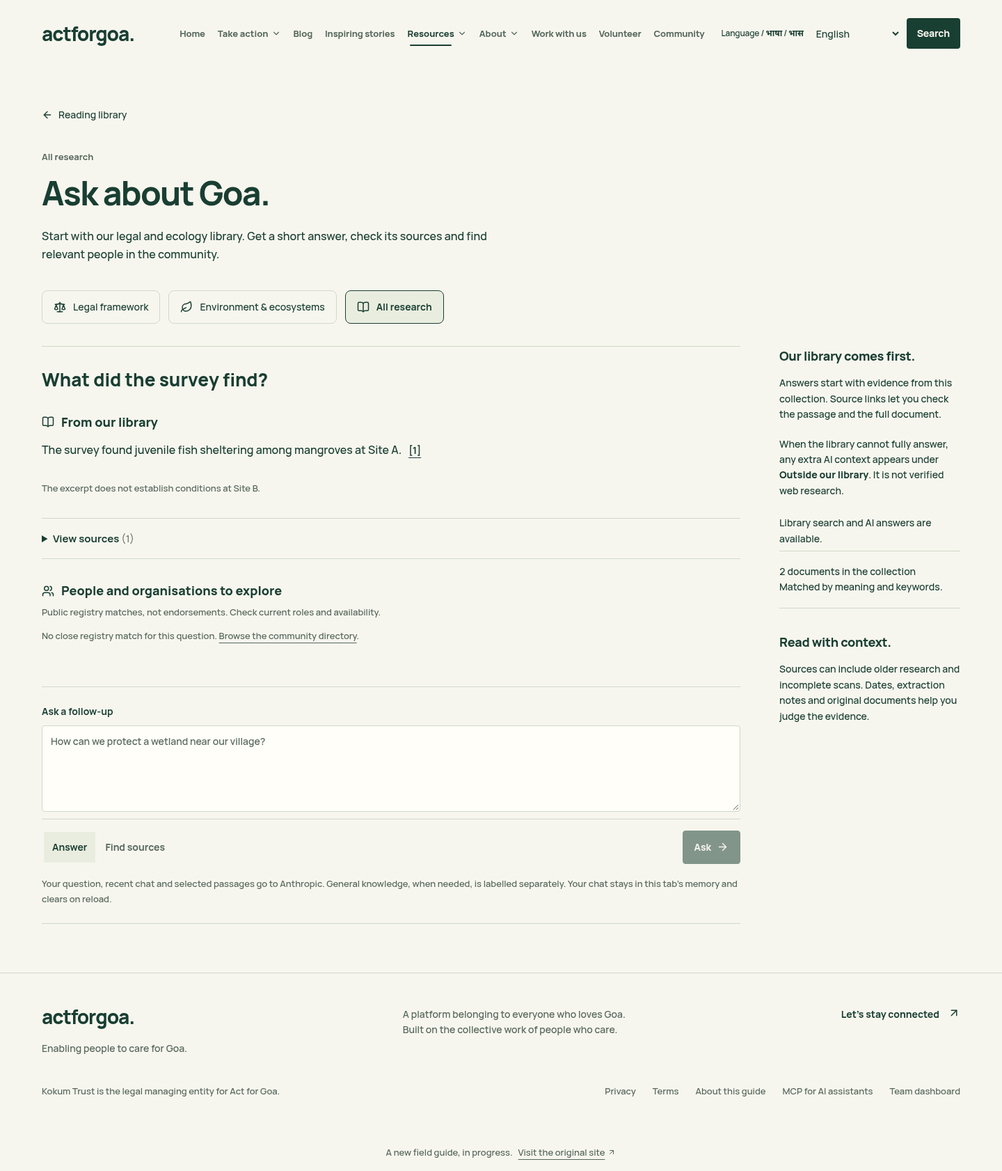
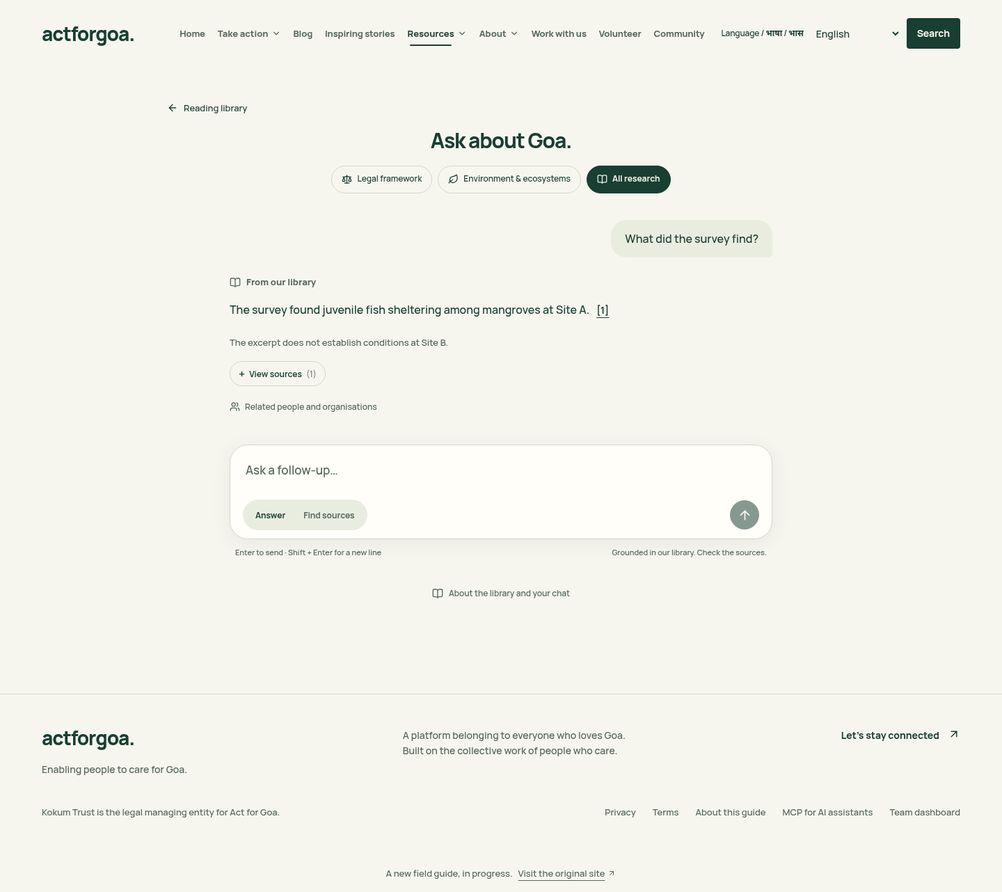
Restyle research as a rounded conversational chat interface

diff --git a/src/Research.tsx b/src/Research.tsx
@@ -1,6 +1,6 @@
 import {createContext,useContext,useEffect,useMemo,useRef,useState,type FormEvent,type ReactNode} from 'react';
 import {Link,useLocation,useParams,useSearchParams} from 'react-router-dom';
-import {ArrowLeft,ArrowRight,ArrowUpRight,BookOpen,Download,Leaf,Scale,Users} from 'lucide-react';
+import {ArrowLeft,ArrowRight,ArrowUp,ArrowUpRight,BookOpen,Download,Leaf,Scale,Users,MessageCircle} from 'lucide-react';
 import {Button} from './components/arc/button/button';
 import {Input} from './components/arc/input/input';
 import {Textarea} from './components/arc/textarea/textarea';
@@ -90,6 +90,7 @@ function ResearchConversation({scope,domain,docId,sourceGeneration}:{scope:strin
   setCommunity(reviewPolytechnicSnapshot(value));
  }).catch(e=>{if(e.name!=='AbortError')setCommunityError(true);});return()=>controller.abort();},[hasTurns]);
  useEffect(()=>{if(turns.length){latestTurn.current?.scrollIntoView({block:'start'});latestTurn.current?.focus({preventScroll:true});}},[turns.length]);
+ useEffect(()=>{const input=questionInput.current;if(input){input.style.height='auto';input.style.height=`${Math.min(input.scrollHeight,180)}px`;}},[question]);
  useEffect(()=>{const previous=document.title;document.title=`${content.label} | ActForGoa`;return()=>{document.title=previous;};},[content.label]);
  async function run(value=question,requested=mode){
   const clean=value.trim();if(clean.length<2||busy||!domainSupported||(requested==='ask'&&!canAsk))return;
@@ -108,30 +109,30 @@ function ResearchConversation({scope,domain,docId,sourceGeneration}:{scope:strin
  }
  const submit=(event:FormEvent)=>{event.preventDefault();void run();};
  const statusText=statusError||(!status?'Connecting to the library…':!status.search_ready?'The research library is not ready yet.':!domainSupported?'This collection is not available on the research service yet.':!canAsk?'Source search is ready. AI answers are not available yet.':'Library search and AI answers are available.');
- return <main className="research shell"><header className="research-heading"><Link to="/library" className="back-link"><ArrowLeft size={16}/>Reading library</Link><p className="research-eyebrow">{content.label}</p><h1>{content.title}</h1><p>{content.description}</p></header>
+ return <main className={`research research-chat shell ${hasTurns?'has-conversation':''}`}><header className="research-heading"><Link to="/library" className="back-link"><ArrowLeft size={16}/>Reading library</Link><div className="chat-mark" aria-hidden="true"><MessageCircle size={25}/></div><h1>{content.title}</h1><p>Ask a question. Explore the answer together, grounded in our library.</p></header>
   <nav className="research-domains" aria-label="Choose a research collection">{(['legal','ecology','all'] as const).map(key=><Link key={key} to={researchDomains[key].path} aria-current={domain===key?'page':undefined}>{key==='legal'?<Scale size={18}/>:key==='ecology'?<Leaf size={18}/>:<BookOpen size={18}/>}<span>{researchDomains[key].label}</span></Link>)}</nav>
   <div className="research-layout"><div className="research-main">
    {!domainSupported&&<div className="research-message" role="status"><p>{statusText}</p>{status&&<Link className="text-link" to="/ask">Explore all available research<ArrowRight size={16}/></Link>}</div>}
-   {turns.map((turn,index)=>{const sources=turn.answer?.citations.length?turn.answer.citations:turn.results;return <section className="research-turn" ref={index===turns.length-1?latestTurn:undefined} tabIndex={-1} key={index} aria-label={'Question '+(index+1)}><h2>{turn.question}</h2>
+   {turns.map((turn,index)=>{const sources=turn.answer?.citations.length?turn.answer.citations:turn.results;return <section className="research-turn" ref={index===turns.length-1?latestTurn:undefined} tabIndex={-1} key={index} aria-label={'Question '+(index+1)}><div className="chat-user-message"><span className="chat-sr-only">You asked</span><h2>{turn.question}</h2></div>
     {turn.error&&<p role="alert" className="research-message">{turn.error}</p>}
     {turn.answer&&<AnswerSections answer={turn.answer} returnTo={returnTo}/>}
     {sources.length?<details className="research-sources" open={turn.mode==='search'||undefined}><summary>{turn.answer?'View sources':turn.mode==='ask'?'View matching sources':'Matching sources'} <span>({sources.length})</span></summary>{sources.map((source,n)=><Source key={source.id} source={source} number={n+1} returnTo={returnTo}/>)}</details>:!turn.error&&!turn.answer&&<p>No matching passages. Try a place, an official term or a broader topic.</p>}
-    <CommunitySuggestions data={community} question={turn.question} loading={!community&&!communityError} error={communityError}/>
+    <details className="chat-related"><summary><Users size={15}/>Related people and organisations</summary><CommunitySuggestions data={community} question={turn.question} loading={!community&&!communityError} error={communityError}/></details>
    </section>;})}
-   <form className="research-composer" onSubmit={submit}>
-    <Textarea label={turns.length?'Ask a follow-up':'What would you like to understand?'} ref={questionInput} id="research-question" value={question} onChange={event=>setQuestion(event.target.value)} rows={3} maxLength={2000} minLength={2} required placeholder={content.placeholder} disabled={busy}/>
-    <div className="composer-actions"><fieldset className="research-mode-fieldset" disabled={busy}><SegmentedControl label="Research mode" options={[{value:'ask',label:'Answer'},{value:'search',label:'Find sources'}]} value={mode} onValueChange={value=>{if(!busy)setMode(value as 'search'|'ask');}}/></fieldset><Button className="research-submit" type="submit" disabled={busy||question.trim().length<2||!domainSupported||(mode==='ask'&&!canAsk)}>{busy?'Working…':mode==='ask'?'Ask':'Find sources'}<ArrowRight size={17}/></Button></div>
-    {mode==='ask'&&!canAsk&&domainSupported&&<p className="research-small" role="status">Answers are unavailable right now. Choose “Find sources” to browse the library while we restore them.</p>}
-    <p className="research-small">{mode==='ask'&&canAsk?'Your question, recent chat and selected passages go to Anthropic. General knowledge, when needed, is labelled separately.':'Source search uses our library and does not send your question to an AI provider.'} Your chat stays in this tab’s memory and clears on reload.</p>
-    {busy&&<p role="status" className="research-small">{mode==='ask'&&canAsk?'Finding library evidence and preparing a short answer…':'Finding matching library passages…'}</p>}
+   <form className="research-composer chat-composer" onSubmit={submit}>
+    <div className="chat-input"><Textarea label={turns.length?'Ask a follow-up':'Message ActForGoa'} ref={questionInput} id="research-question" value={question} onChange={event=>setQuestion(event.target.value)} onKeyDown={event=>{if(event.key==='Enter'&&!event.shiftKey&&!event.nativeEvent.isComposing){event.preventDefault();void run();}}} rows={1} maxLength={2000} minLength={2} required placeholder={turns.length?'Ask a follow-up…':domain==='all'?'Ask anything about Goa…':domain==='legal'?'Ask about Goa’s legal framework…':'Ask about Goa’s ecosystems…'} disabled={busy}/></div>
+    <div className="composer-actions"><fieldset className="research-mode-fieldset" disabled={busy}><SegmentedControl label="Research mode" options={[{value:'ask',label:'Answer'},{value:'search',label:'Find sources'}]} value={mode} onValueChange={value=>{if(!busy)setMode(value as 'search'|'ask');}}/></fieldset><Button className="research-submit" type="submit" aria-label={busy?'Working…':mode==='ask'?'Ask':'Find sources'} title={mode==='ask'?'Send message':'Find sources'} disabled={busy||question.trim().length<2||!domainSupported||(mode==='ask'&&!canAsk)}><ArrowUp size={21}/></Button></div>
+    {busy&&<p role="status" className="chat-composer-status"><span className="chat-working-dot"/>{mode==='ask'?'Reading the library and preparing your answer…':'Finding matching passages…'}</p>}
    </form>
+   <div className="chat-composer-meta"><p>{busy?'': 'Enter to send · Shift + Enter for a new line'}</p><p>Grounded in our library. Check the sources.</p></div>
+   {mode==='ask'&&!canAsk&&domainSupported&&<div className="chat-availability" role="status"><p>Answers are unavailable right now. Choose “Find sources” to browse the library while we restore them.</p><Button variant="ghost" type="button" onClick={()=>setStatusAttempt(value=>value+1)}>Check availability</Button></div>}
    {!turns.length&&<div className="research-starters"><h2>Start with a question</h2>{content.starters.map(question=><Button variant="ghost" key={question} type="button" disabled={busy||!domainSupported||(mode==='ask'&&!canAsk)} onClick={()=>void run(question)}>{question}<ArrowRight size={17}/></Button>)}</div>}
-  </div><aside className="research-aside"><h2>Our library comes first.</h2><p>Answers start with evidence from this collection. Source links let you check the passage and the full document.</p><p>When the library cannot fully answer, any extra AI context appears under <strong>Outside our library</strong>. It is not verified web research.</p>
+  </div><details className="research-aside chat-library-info"><summary><BookOpen size={16}/>About the library and your chat</summary><div className="chat-library-body"><h2>Our library comes first.</h2><p>Answers start with evidence from this collection. Source links let you check the passage and the full document.</p><p>When the library cannot fully answer, any extra AI context appears under <strong>Outside our library</strong>. It is not verified web research.</p><p>{mode==='ask'&&canAsk?'Your question, recent chat and selected passages go to Anthropic. General knowledge, when needed, is labelled separately.':'Source search uses our library and does not send your question to an AI provider.'} Your chat stays in this tab’s memory and clears on reload.</p>
    <p className="research-service-status" role="status">{statusText}</p>{(statusError||status&&!canAsk)&&<Button variant="ghost" type="button" onClick={()=>setStatusAttempt(value=>value+1)}>Check availability</Button>}
    {status?.search_ready&&<p className="research-coverage">{domain==='all'?`${status.stats.documents?.toLocaleString()||'Available'} documents in the collection`:status.domain_counts?.[domain]!==undefined?`${status.domain_counts[domain].toLocaleString()} documents in this section`:'Coverage is limited to the indexed collection.'}<br/>Matched by meaning and keywords.</p>}
    {docId&&<p>Searching within one document. <Link to={content.path}>Search this collection</Link></p>}
    <h2>{domain==='legal'?'Check current requirements.':'Read with context.'}</h2><p>{domain==='legal'?'Legal documents and draft guides may be historical or incomplete. Confirm current rules with the responsible authority before acting.':'Sources can include older research and incomplete scans. Dates, extraction notes and original documents help you judge the evidence.'}</p>
-  </aside></div>
+  </div></details></div>
  </main>;
 }
 export function ResearchDocument(){

diff --git a/src/research.css b/src/research.css
@@ -44,3 +44,83 @@
 .research-answer-section .citation-link{min-height:32px;min-width:32px;text-align:center}
 @media(max-width:1050px){.research-community ul{grid-template-columns:minmax(0,1fr)}.research-community li{padding-block:14px}.research-community h4{font-size:16px}}
 @media(max-width:620px){.research-domains{gap:8px;margin-bottom:24px}.research-domains a{flex:1 1 100%;min-height:48px;padding:10px 14px}.research-community ul{gap:0}.research-answer-section h3,.research-community>h3{font-size:17px}.research-answer-section .answer-paragraph{font-size:16px;line-height:1.85}.research-community li>a{min-height:44px}}
+
+/* The research conversation uses the rounded chat treatment requested by the user. */
+.research-chat{max-width:960px;padding-block:36px 64px;min-height:calc(100svh - 100px)}
+.research-chat .research-heading{max-width:none;text-align:center;margin-bottom:24px;position:relative;padding-top:34px}
+.research-chat .research-heading .back-link{position:absolute;left:0;top:0;font-size:13px;margin:0}
+.chat-mark{display:grid;place-items:center;width:52px;height:52px;margin:12px auto 18px;background:var(--pale);border-radius:18px;color:var(--green)}
+.research-chat .research-heading h1{font-size:clamp(32px,4vw,46px);line-height:1.15;letter-spacing:-.04em}
+.research-chat .research-heading>p{font-size:15px;line-height:1.65;max-width:42ch;margin:14px auto 0;color:var(--muted)}
+.research-chat .research-domains{justify-content:center;gap:8px;margin-bottom:32px;flex-wrap:wrap}
+.research-chat .research-domains a{flex:0 1 auto;min-height:40px;border-radius:999px;padding:8px 14px;gap:7px;font-size:12px;line-height:1.4;background:transparent}
+.research-chat .research-domains a[aria-current=page]{background:var(--green);border-color:var(--green);color:var(--paper)}
+.research-chat .research-domains svg{width:15px;height:15px}
+.research-chat .research-layout{display:block;max-width:780px;margin-inline:auto}
+.research-chat .research-turn{border:0;padding-top:6px;margin-bottom:36px;scroll-margin-top:100px}
+.chat-user-message{display:flex;justify-content:flex-end;margin-bottom:26px}
+.chat-user-message h2{font-size:16px;line-height:1.65;letter-spacing:0;font-weight:550;max-width:85%;padding:14px 20px;background:var(--pale);border-radius:22px 22px 6px 22px;overflow-wrap:anywhere;white-space:pre-wrap}
+.chat-sr-only,.chat-input label{position:absolute!important;width:1px!important;height:1px!important;padding:0!important;margin:-1px!important;overflow:hidden!important;clip:rect(0,0,0,0)!important;white-space:nowrap!important;border:0!important}
+.research-chat .research-answer-section{padding-block:0 12px}
+.research-chat .research-answer-section h3{font-size:13px;gap:8px;color:var(--muted);margin-bottom:16px}
+.research-chat .research-answer-section h3 svg{width:16px;height:16px}
+.research-chat .answer-paragraph{font-size:16px;line-height:1.85;margin-bottom:16px;max-width:none}
+.research-chat .research-outside{margin-top:14px;padding-top:18px}
+.research-chat .research-sources{border:0;margin:4px 0 10px}
+.research-chat .research-sources>summary{display:inline-flex;align-items:center;gap:6px;min-height:36px;padding:6px 12px;border:1px solid var(--line);border-radius:999px;font-size:12px;line-height:1.6;font-weight:650;list-style:none}
+.research-chat .research-sources>summary::before{content:'+';font-size:16px;line-height:1}
+.research-chat .research-sources[open]>summary::before{content:'−'}
+.research-chat .research-sources>summary::-webkit-details-marker{display:none}
+.research-chat .research-sources[open]{padding-bottom:8px}
+.research-chat .research-source{padding-inline:4px}
+.research-chat .research-message{border:0;background:var(--pale);border-radius:18px;padding:16px 18px;margin-block:12px}
+.chat-related{margin-top:8px;color:var(--muted);font-size:12px}
+.chat-related>summary{display:flex;align-items:center;gap:7px;cursor:pointer;min-height:38px;width:fit-content;list-style:none}
+.chat-related>summary::-webkit-details-marker{display:none}
+.chat-related .research-community{margin-top:14px;color:var(--green)}
+.research-chat .chat-composer{position:sticky;bottom:16px;z-index:5;border:1px solid var(--line);border-radius:26px;padding:18px 18px 12px;background:var(--white);box-shadow:0 6px 28px rgb(25 62 50 / 7%);margin-top:20px}
+.chat-input{position:relative}
+.research-chat .chat-input textarea{min-height:58px;max-height:180px;padding:4px 4px 12px;border:0;border-radius:14px;resize:none;font-size:17px;line-height:1.6;background:transparent;box-shadow:none;outline:none}
+.research-chat .chat-input textarea:hover,.research-chat .chat-input textarea:focus-visible{background:transparent;box-shadow:none;outline:none}
+.research-chat .chat-composer:focus-within{background:#fafbf5}
+.research-chat .chat-composer .composer-actions{border:0;padding:0;margin:2px 0 0;display:flex;align-items:center;justify-content:space-between;gap:12px;flex-wrap:nowrap}
+.research-chat .research-mode-fieldset [role=group]{border-radius:999px;background:var(--pale);padding:3px}
+.research-chat .research-mode-fieldset button{font-size:12px;min-height:32px;padding:5px 12px;border-radius:999px}
+.research-chat .research-mode-fieldset button>span{border-radius:999px}
+.research-chat .chat-composer .research-submit{width:42px;height:42px;min-width:42px;min-height:42px;border-radius:50%;padding:0;margin:0;display:grid;place-items:center;flex-shrink:0}
+.chat-composer-status{font-size:12px;color:var(--muted);display:flex;align-items:center;gap:8px;margin:12px 4px 0}
+.chat-working-dot{width:7px;height:7px;border-radius:50%;background:var(--green);flex-shrink:0;animation:chat-breathe 1.3s ease-in-out infinite}
+.chat-composer-meta{display:flex;justify-content:space-between;gap:12px;padding:10px 8px 0;color:var(--muted);font-size:11px;line-height:1.6}
+.chat-availability{font-size:12px;line-height:1.65;color:var(--muted);padding:12px 8px 0}
+.chat-availability button{font-size:12px;margin-top:3px}
+.research-chat .research-starters{margin-top:28px;display:grid;grid-template-columns:repeat(3,minmax(0,1fr));gap:10px}
+.research-chat .research-starters h2{grid-column:1/-1;font-size:12px;font-weight:550;letter-spacing:0;text-align:center;color:var(--muted);margin-bottom:2px}
+.research-chat .research-starters>button{border:1px solid var(--line);border-radius:16px;padding:14px;min-height:80px;font-size:13px;line-height:1.6;gap:8px;background:transparent}
+.research-chat .research-starters>button:hover{background:var(--pale)}
+.research-chat .research-starters>button svg{width:15px;height:15px;flex-shrink:0}
+.research-chat .chat-library-info{border:0;padding:0;margin:28px auto 0;max-width:none;font-size:13px}
+.chat-library-info>summary{display:flex;justify-content:center;align-items:center;gap:8px;font-size:12px;color:var(--muted);min-height:44px;cursor:pointer;list-style:none}
+.chat-library-info>summary::-webkit-details-marker{display:none}
+.chat-library-body{padding:20px 8px 0;max-width:65ch;margin:auto}
+.research-chat .chat-library-body h2{font-size:15px}
+.research-chat .chat-library-body p{font-size:13px}
+.research-chat.has-conversation .research-heading{margin-bottom:18px}
+.research-chat.has-conversation .chat-mark{display:none}
+.research-chat.has-conversation .research-heading h1{font-size:30px;margin-top:18px}
+.research-chat.has-conversation .research-heading>p{display:none}
+@keyframes chat-breathe{50%{opacity:.35}}
+@media(prefers-reduced-motion:reduce){.chat-working-dot{animation:none}}
+@media(max-width:620px){
+ .research-chat{padding-block:24px 40px}
+ .research-chat .research-heading{padding-top:30px;margin-bottom:20px}
+ .research-chat .research-domains{gap:6px;margin-bottom:24px}
+ .research-chat .research-domains a{font-size:11px;padding:8px 10px;min-height:38px}
+ .research-chat .chat-composer{border-radius:24px;padding:15px 13px 11px;bottom:10px}
+ .research-chat .chat-input textarea{font-size:16px;min-height:56px}
+ .research-chat .research-starters{grid-template-columns:1fr;gap:8px;margin-top:24px}
+ .research-chat .research-starters>button{min-height:54px;padding:12px 15px;border-radius:15px}
+ .chat-composer-meta{justify-content:center;text-align:center;font-size:10px}
+ .chat-composer-meta>p:first-child{display:none}
+ .chat-user-message h2{font-size:15px;max-width:90%;padding:12px 16px;border-radius:20px 20px 6px 20px}
+ .research-chat .research-mode-fieldset button{padding:5px 10px}
+}

diff --git a/tests/research/answer_first_browser.py b/tests/research/answer_first_browser.py
@@ -87,6 +87,8 @@ def main():
                 page.get_by_role('button', name='Ask', exact=True).click()
 
             open_page()
+            assert not page.evaluate('document.documentElement.scrollWidth > innerWidth + 1')
+            page.screenshot(path=str(output / f'chat-ready-{width}.png'), full_page=True)
             ask('What did the survey find?')
             turn = page.locator('.research-turn').first
             expect(turn.locator('.answer-paragraph').first).to_have_text(answer['paragraphs'][0]['text'] + '[1]')
@@ -102,12 +104,19 @@ def main():
             page.get_by_role('link', name='Back to your research', exact=True).click()
             expect(page.locator('.research-turn')).to_have_count(1)
             expect(page.locator('details.research-sources .research-source')).not_to_be_visible()
-            ask('What about Site B?')
+            composer = page.locator('#research-question')
+            composer.fill('What about')
+            composer.press('Shift+Enter')
+            page.keyboard.insert_text('Site B?')
+            expect(composer).to_have_value('What about\nSite B?')
+            assert len(state['requests']) == 1
+            composer.press('Enter')
             expect(page.locator('.research-turn')).to_have_count(2)
+            assert state['requests'][-1]['question'] == 'What about\nSite B?'
             history = state['requests'][-1]['history']
             assert history[0] == {'role': 'user', 'content': 'What did the survey find?'}
             assert history[1]['role'] == 'assistant' and 'juvenile fish' in history[1]['content']
-            checks.append({'width': width, 'case': 'answer first, collapsed sources, citation and contextual follow-up', 'passed': True})
+            checks.append({'width': width, 'case': 'answer first, collapsed sources, citation, keyboard send/newline and contextual follow-up', 'passed': True})
 
             state['failure'] = True
             open_page()

diff --git a/reports/answer-first-2026-10-28/README.md b/reports/answer-first-2026-10-28/README.md
@@ -1,15 +1,15 @@
 # Answer first verification
 
-The user requested a conversational answer grounded in the retrieved excerpts, with sources secondary. This change adds the editorial brief to the existing provider request, retains exact excerpt text with source locations, and prevents answer mode from silently becoming source search.
+The user requested a conversational answer grounded in the retrieved excerpts, with sources secondary, and then a rounded, classic chat interface. This change adds the editorial brief to the existing provider request, retains exact excerpt text with source locations, and prevents answer mode from silently becoming source search. The UI uses a rounded auto-growing composer, circular send control, user message bubbles, compact collection controls and expandable source/community/library details. Enter sends and Shift+Enter inserts a newline.
 
 Validation on 28 October 2026:
 
 - 121 Python research tests passed, including inspection of the actual HTTP request body sent through a mock Anthropic transport. Two complete excerpts, their qualifications and source locations reach the provider unchanged. Oversized excerpts are omitted whole rather than truncated; conversation history remains distinct from source evidence.
 - 178 Node tests passed with `NODE_USE_ENV_PROXY=1 NODE_USE_SYSTEM_CA=1 npm test`.
 - `npm run build` passed. The existing lazy PDF chunk size warning remains.
-- `python3 tests/research/answer_first_browser.py --base-url http://127.0.0.1:4193` passed nine scenarios at 1440, 390 and 320 pixels, with no page errors. Checks cover answer-first order, collapsed sources, exact-passage navigation and return, follow-up context, failed generation and explicit source browsing while generation is unavailable.
+- `python3 tests/research/answer_first_browser.py --base-url http://127.0.0.1:4193` passed nine scenarios at 1440, 390 and 320 pixels, with no page errors or horizontal overflow. Checks cover answer-first order, collapsed sources, exact-passage navigation and return, keyboard send/newline, follow-up context, failed generation and explicit source browsing while generation is unavailable.
 - Rendered desktop and phone screenshots were inspected against the existing design guidance. The Impeccable skill was not installed in this executor; no Impeccable pass is claimed.
 
-`browser.json` records the scenarios. The PNGs use explicitly synthetic API responses, not generated answers or private corpus data. `validation.json` hashes the three runtime files tested. No paid provider calls, full-corpus semantic acceptance or deployment occurred during these checks. The existing hybrid retriever is unchanged; the new brief guides evidence reading and selection within the answer request, not an additional retrieval model.
+`browser.json` records the scenarios. The PNGs show empty chat and conversation states using explicitly synthetic API responses, not generated answers or private corpus data. `validation.json` hashes the four runtime files tested. No paid provider calls, full-corpus semantic acceptance or deployment occurred during these checks. The existing hybrid retriever is unchanged; the new brief guides evidence reading and selection within the answer request, not an additional retrieval model.
 
 The active focused release owner must combine this change with the citation-contract corrections before validating and packaging the final runtime. Prior prompt acceptance does not transfer to these changed instructions. Full-corpus/accounting preservation, existing acceptance requirements and hosted verification remain required for activation.

diff --git a/docs/CLOUD-IMPLEMENTATION-PLAN.md b/docs/CLOUD-IMPLEMENTATION-PLAN.md
@@ -91,6 +91,7 @@ The user supplied answer/retrieval briefs and explicitly requested shipping a co
 - `backend/answer_brief.py` directs the model to read the supplied excerpts, answer directly, synthesize supporting passages, explain supported inferences and conflicts, and state specific gaps. It is included in the existing answer request; it does not add a second model call or claim that hybrid retrieval performs model-based query decomposition.
 - The actual provider message retains complete excerpt text and now includes document identity, page/section label, offsets and source URL alongside existing publication metadata and qualifications. An HTTP-boundary regression test inspects the serialized provider request, verifies two exact excerpts and their locations, and preserves all-or-nothing passage budgeting. Titles/IDs alone are not an evidence pack.
 - Answer mode renders the synthesized response before expandable **View sources**. A failed answer keeps matching sources collapsed. When generation is unavailable, Ask is disabled with an explicit explanation; browsing requires choosing **Find sources**, rather than silently converting the request into search.
+- The user's subsequent visual direction is implemented as a rounded chat interface: compact auto-growing composer, circular send control, user message bubbles, pill-shaped collection controls and suggested questions, and collapsed source/community/library details. Enter sends, Shift+Enter inserts a line, and composition input is preserved. This scoped chat treatment supersedes the old rectangular form styling for `/ask` and its domain routes.
 - Validation: 121 research tests, 178 Node tests, production build, and nine Chromium fixture scenarios at 1440, 390 and 320 pixels. Browser checks cover answer/source order, source expansion, exact-passage navigation and return, follow-up context, generation failure and unavailable-answer behavior. Evidence is in `reports/answer-first-2026-10-28/`. These are not live model or semantic acceptance.
 
 The existing local focused corrective release remains the sole promotion operation, as recorded in issue #89 after the later direct user instruction. Integrate this prompt change before freezing its candidate; previous provider acceptance does not transfer to changed instructions. Preserve the citation-contract corrections, full corpus, accounting and existing acceptance requirements. This follow-up does not authorize a budget increase or claim live deployment. The installed Impeccable skill was unavailable in this executor; the existing design guidance and rendered desktop/phone output were checked.
